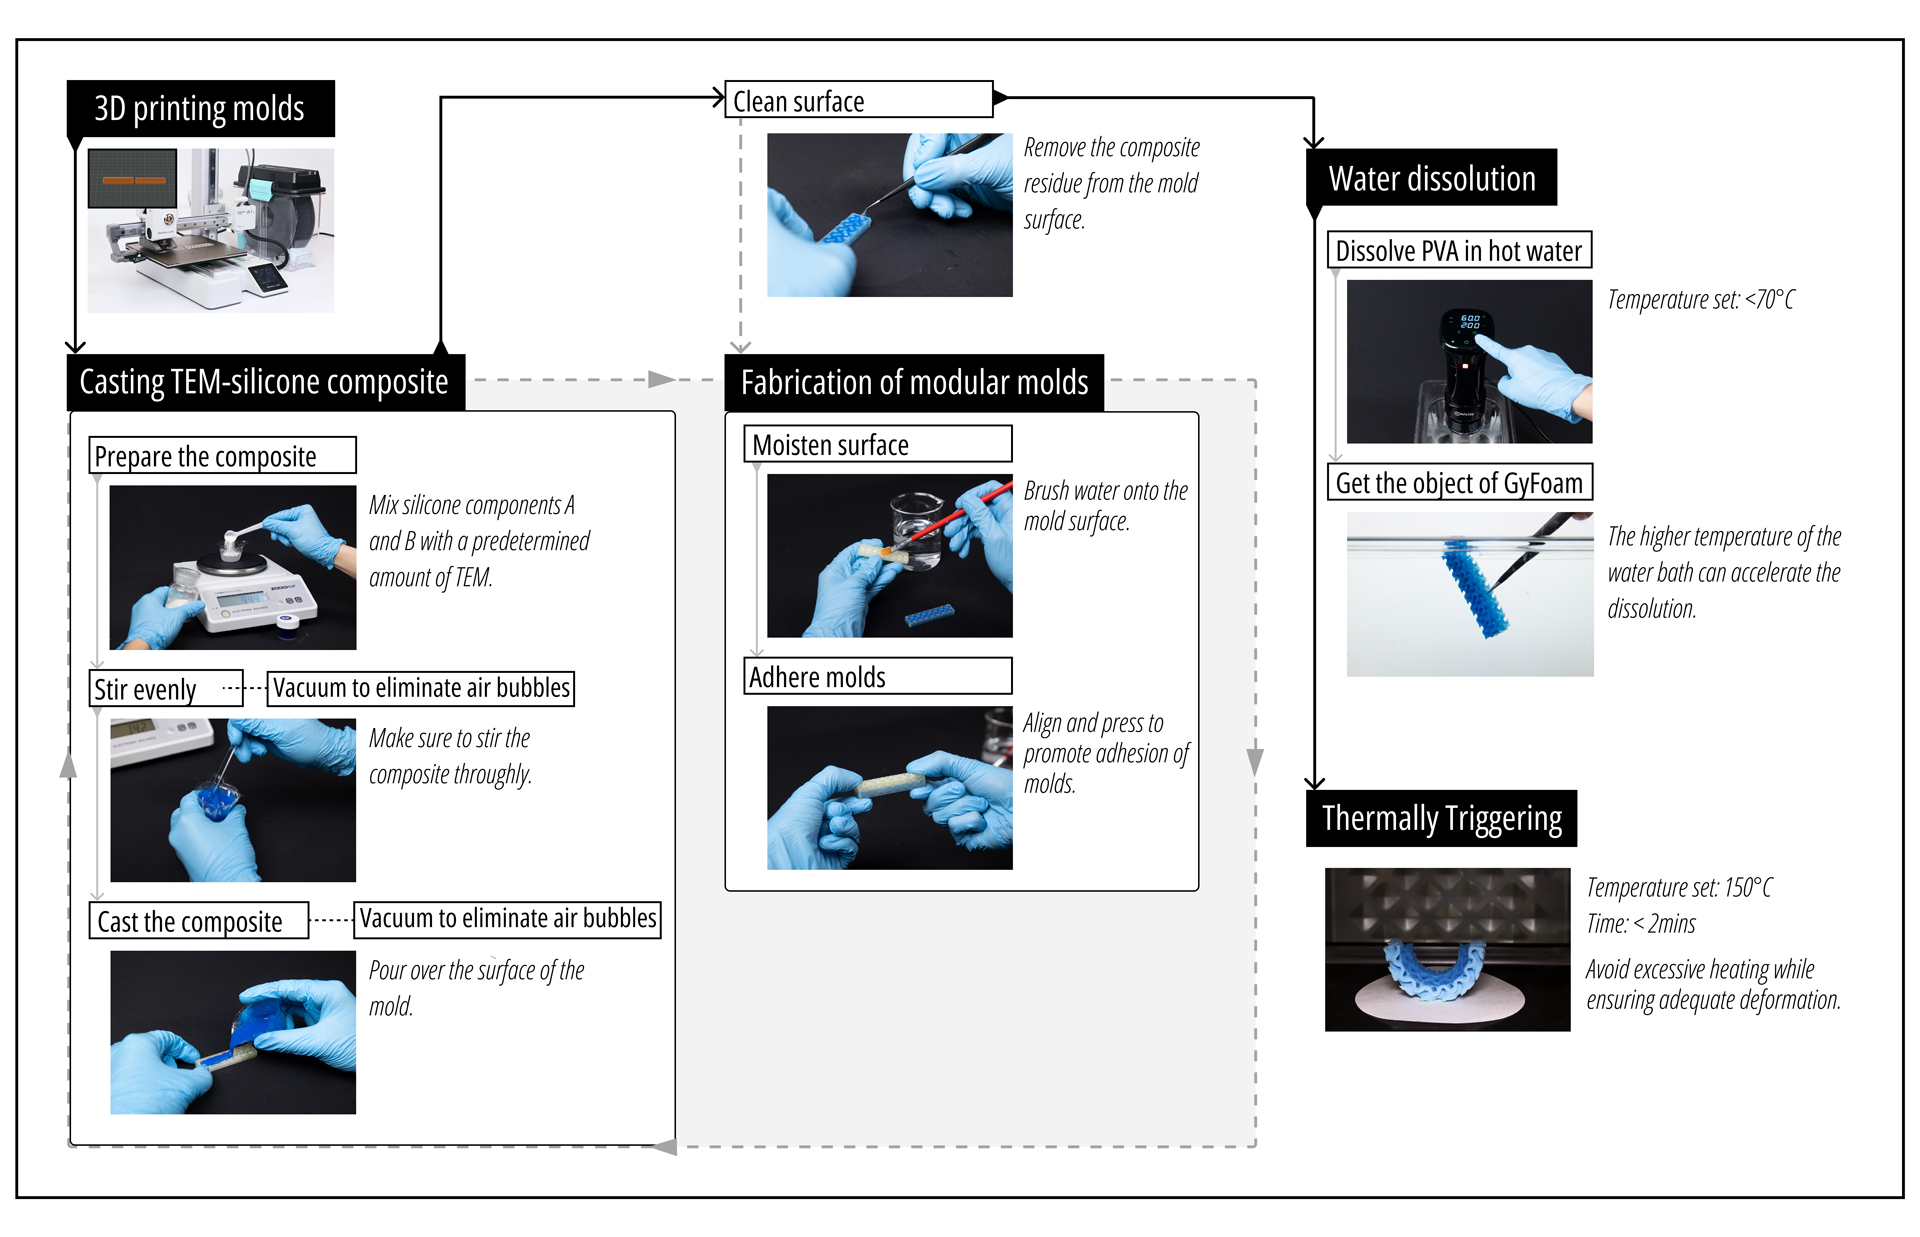
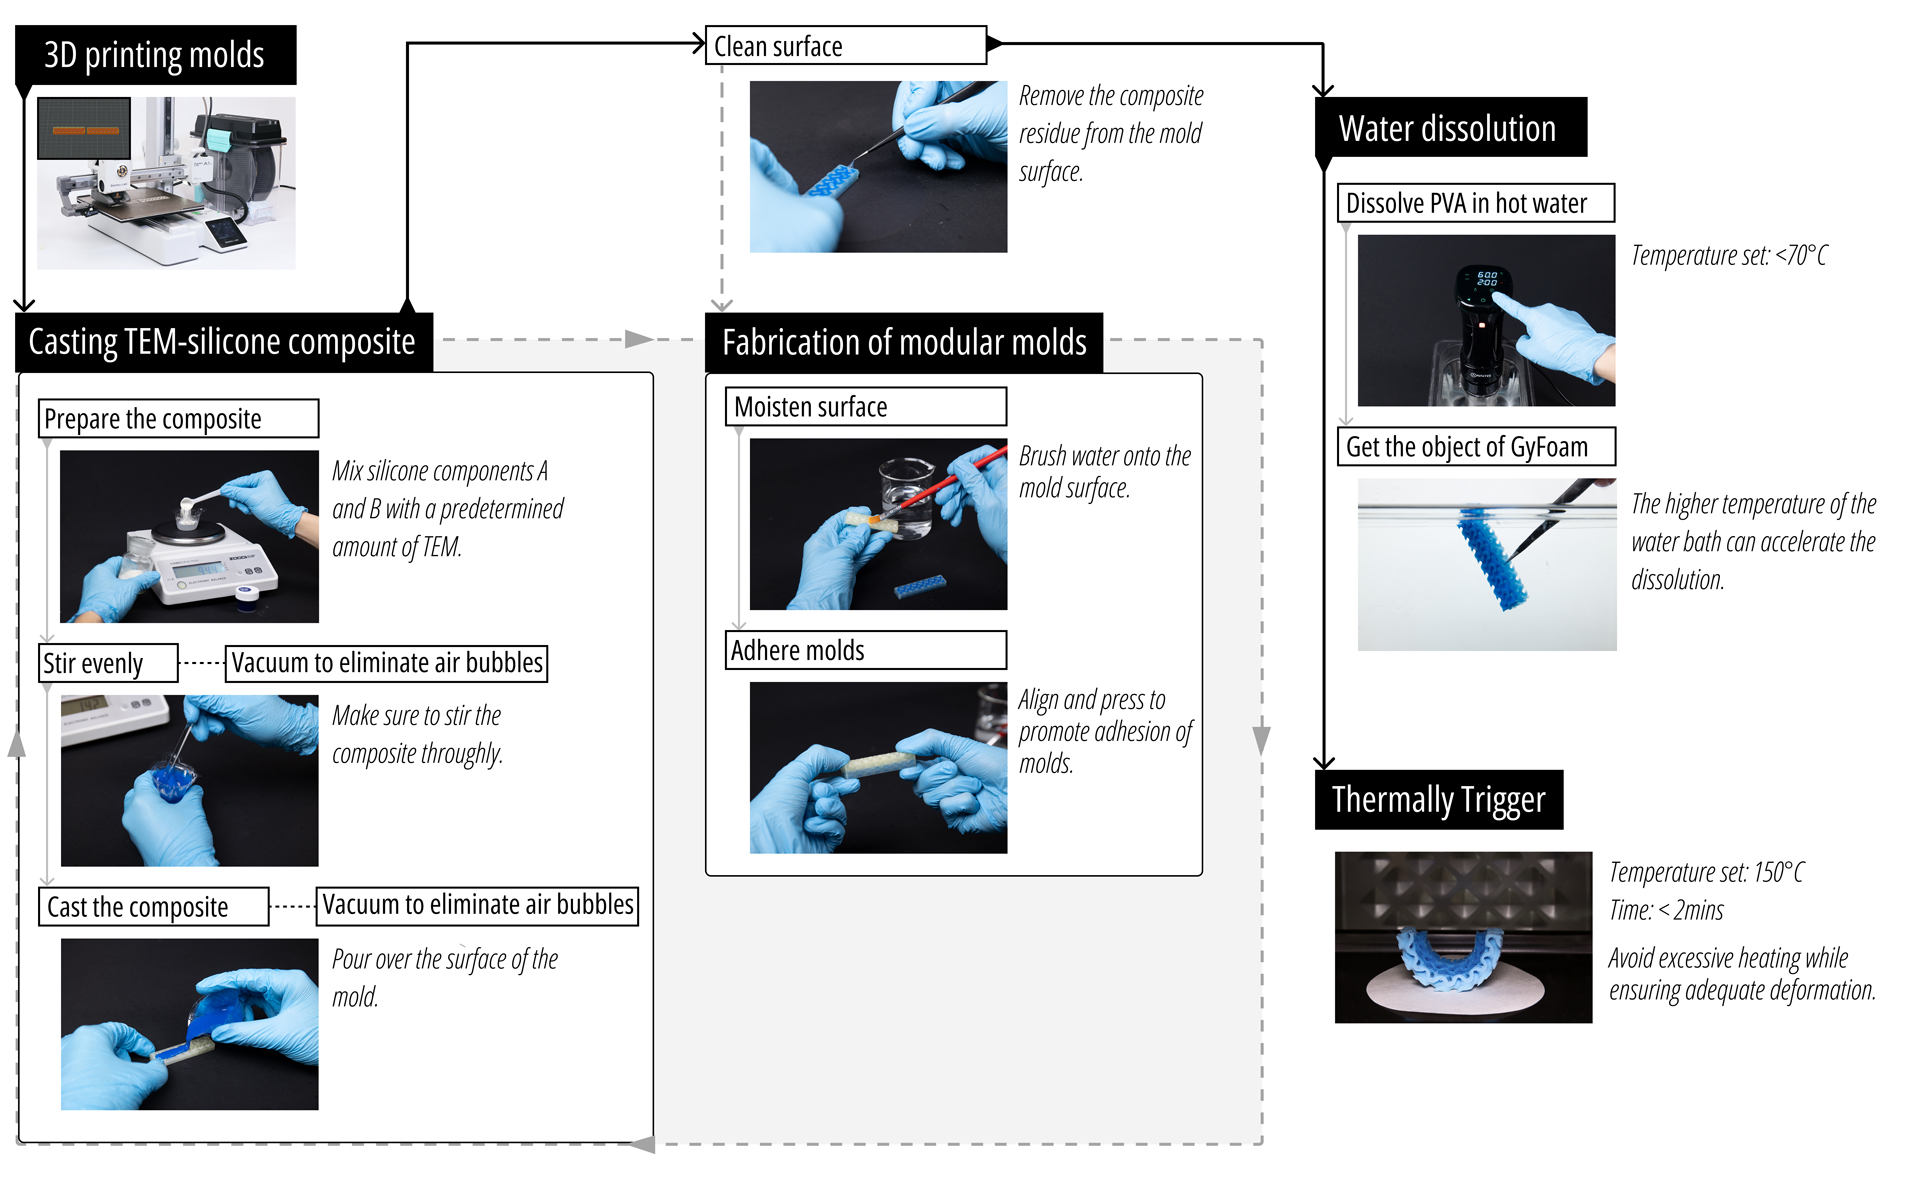
feat: fab页面调整2

Changed region(s): [[0.0, 0.0, 1.0, 0.9763], [0.6562, 0.4881, 0.7188, 0.5492], [0.6562, 0.5492, 0.6875, 0.5797]]

diff --git a/pages/subpage/fabricationworkflow.html b/pages/subpage/fabricationworkflow.html
@@ -225,7 +225,7 @@
             </div>
         </div>
 
-        <h2 id="materials" style="margin: 5rem 0 2rem 0;">Required Materials & Equipment</h2>
+        <h2 id="materials" style="margin: 3rem 0 2rem 0;">Required Materials & Equipment</h2>
 
         <div class="material-card">
             <p
@@ -542,10 +542,6 @@
         <div style="margin-top: 10rem;"></div>
     </div>
 
-    <!-- 绘制图标 -->
-    <script>
-        drawIcon(50 * (window.innerWidth || document.documentElement.clientWidth || document.body.clientWidth) / 1728, "icon", false, false);
-    </script>
 
     <!-- 渲染outline -->
     <script>
@@ -578,15 +574,18 @@
             }
         }
 
-        // 处理URL中的锚点，页面加载时自动调整滚动位置
-        window.addEventListener('load', function () {
-            if (window.location.hash) {
-                const targetId = window.location.hash.substring(1);
-                setTimeout(function () {
-                    scrollToElement(targetId);
-                }, 300); // 延迟执行，确保页面完全加载
-            }
-        });
+        // // 处理URL中的锚点，页面加载时自动调整滚动位置
+        // window.addEventListener('load', function () {
+        //     if (window.location.hash && window.location.hash.length > 1) {
+        //         const targetId = window.location.hash.substring(1);
+        //         setTimeout(function () {
+        //             scrollToElement(targetId);
+        //         }, 300); // 延迟执行，确保页面完全加载
+        //     } else {
+        //         // 如果没有锚点，确保页面滚动到顶部
+        //         window.scrollTo(0, 0);
+        //     }
+        // });
     </script>
 </body>
 

diff --git a/index.html b/index.html
@@ -209,7 +209,7 @@
                         <p style="text-align: right;margin-bottom: 2rem; font-size: 0.9rem;" class="desc-animation">Fabricating Foam Materials for Large-Scale and Lattice-structured Objects with Customizable Stiffness. </p>
                     </div>
                     <div style="display: flex; flex-direction: column; align-items: flex-end; padding-right: 2rem;">
-                        <!-- 菜单项添加动画类 -->
+                        <!-- 菜单项添加动画类 --> 
                         <div style="display: flex; margin-bottom: 1rem;" class="menu-item">
                             <a href="pages/subpage/designtool.html">
                                 <h3 style="margin-right: 2rem;">DesignTool Demonstration</h3>
